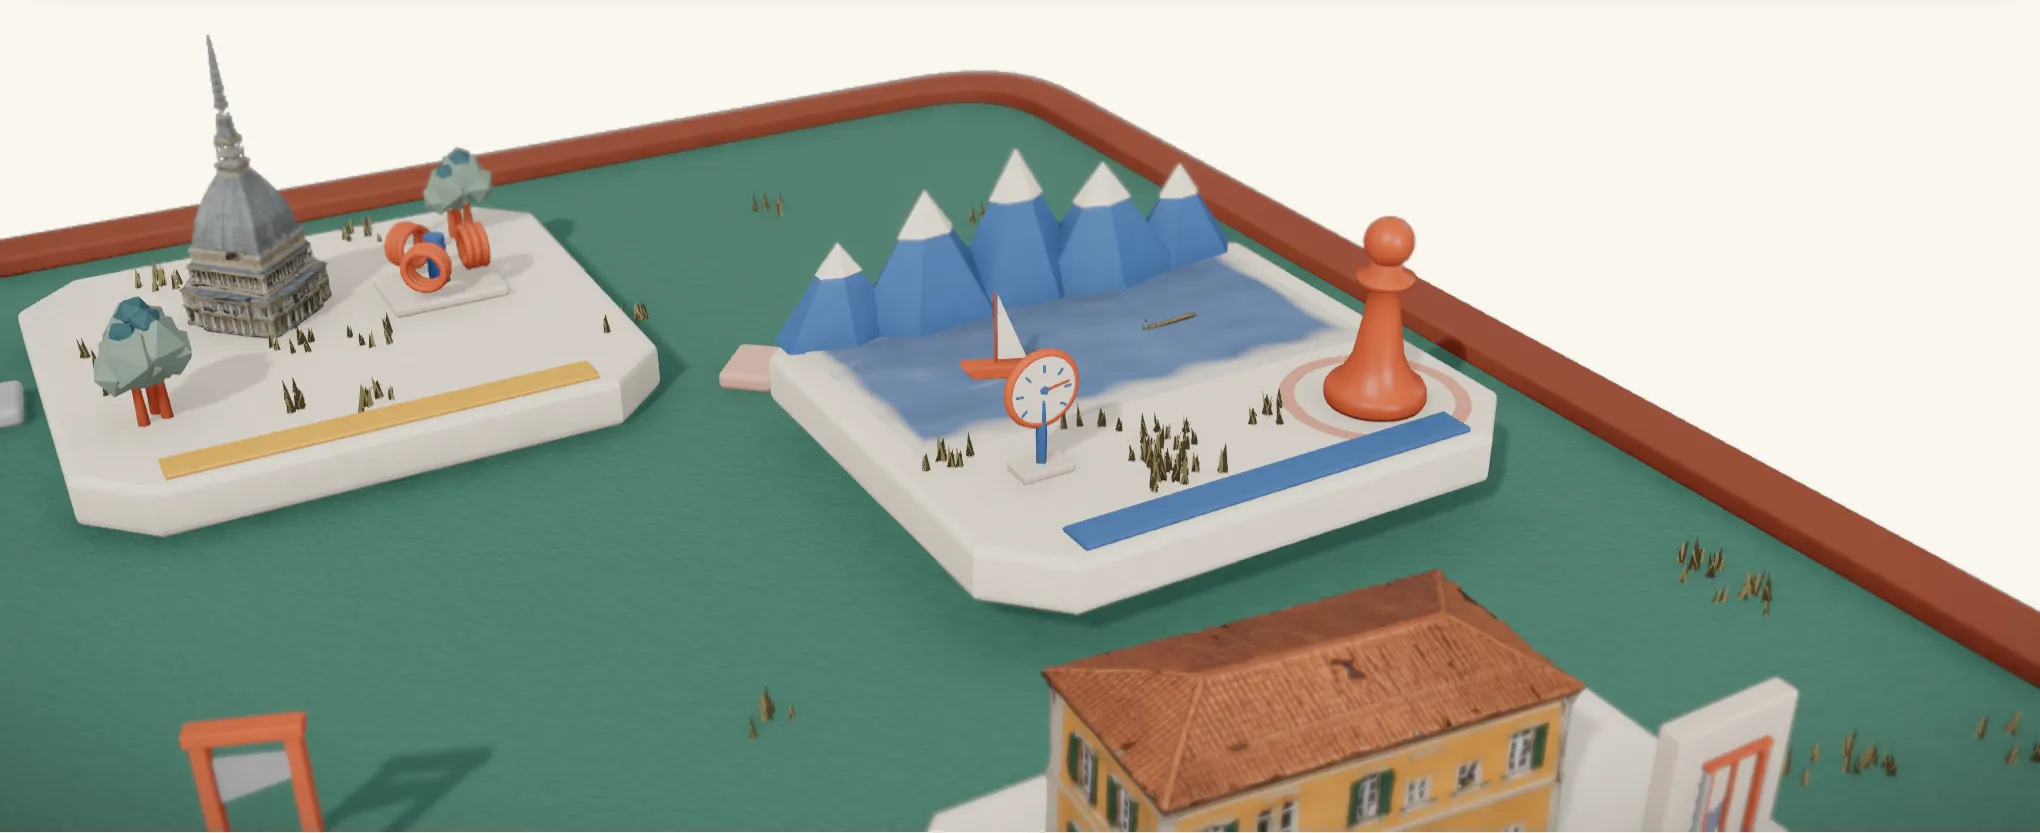
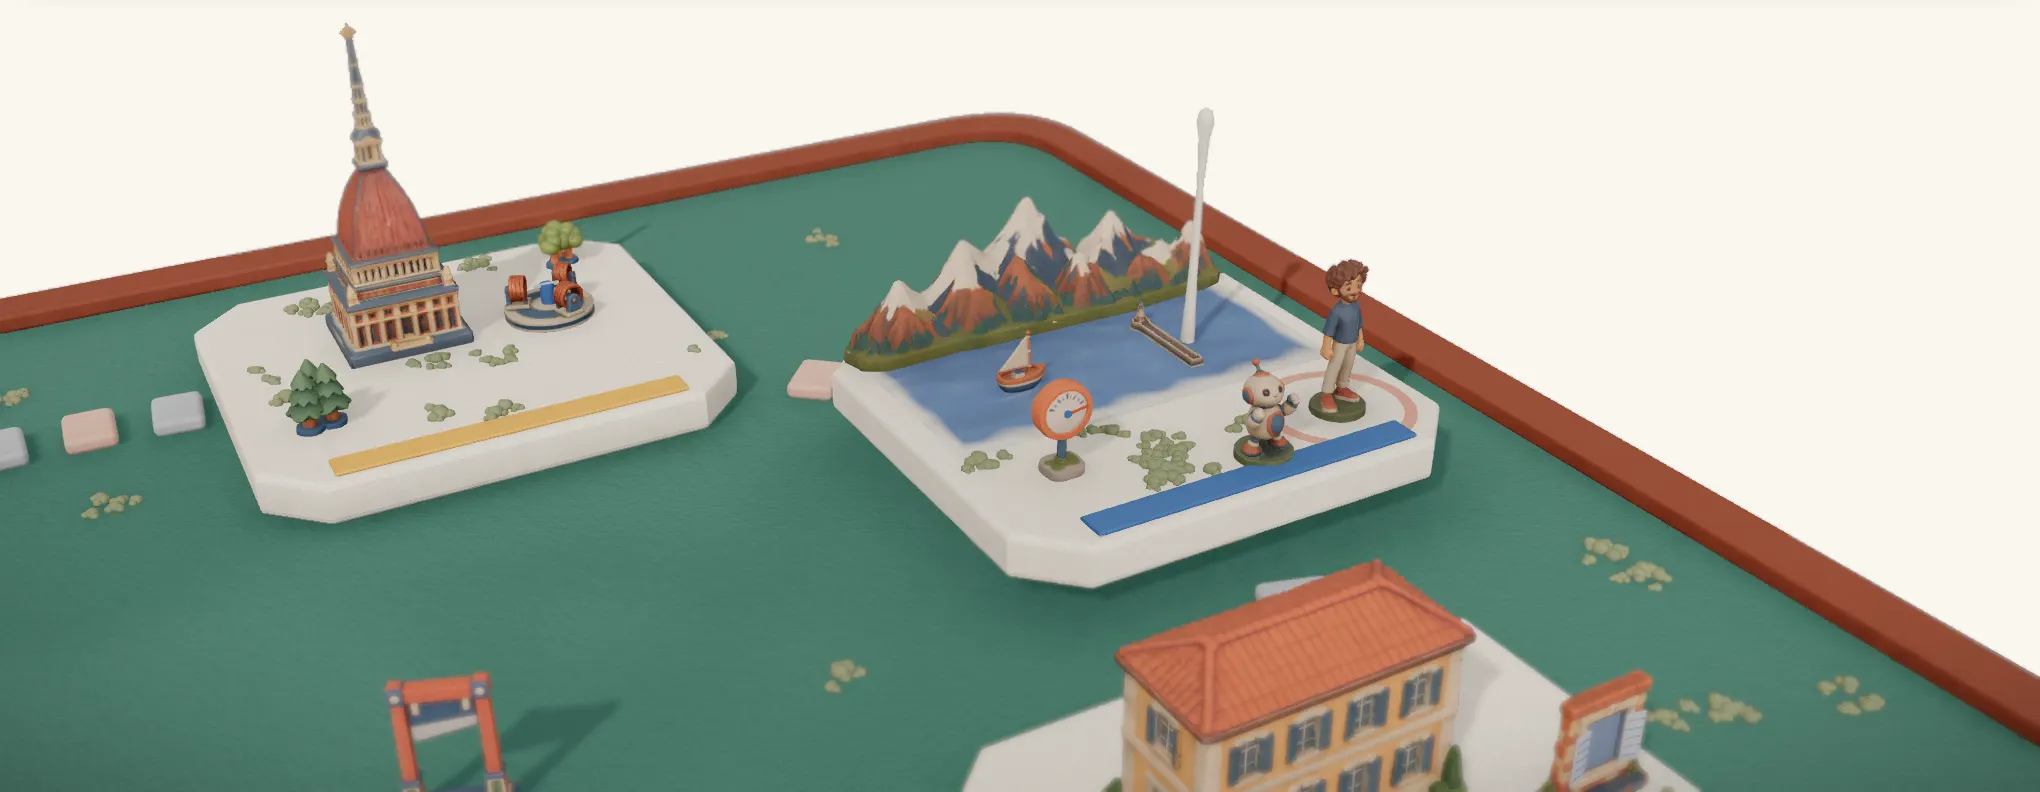
Render the stills with the toys and the duo, and record the toys ADR
The stills wait for every landmark, toy and marker to arrive before they
are shot, so they show the toys and the duo rather than the stand-ins,
in the new night and grass; each is under 73 KB. ADR-0012 records what
v3-toys left unwritten: the board's pieces are generated toys, their
moving parts stay in code, and the GPU budget is 440 MB. The life and
camera docs gain the dormant tiles, the lid, the lean, the confetti, the
lantern and the grass. The pawn's lean reuses a scratch vector.

Ticket: v3-emil-polish
Claude-Session: https://claude.ai/code/session_018sJQ2WFWSifDgKBRRoQqG8

diff --git a/scripts/render-path-stills.ts b/scripts/render-path-stills.ts
@@ -61,12 +61,17 @@ try {
       await page.goto(`${origin}/path#${step.slug}`);
       /* After the first, each goto only changes the fragment, so the page
          still carries the last step's end state: wait for the board to settle
-         on this step, every prop standing, the last step's crossfade gone
-         (reduced motion cuts with one), and for a frame rendered after. */
+         on this step, every prop standing, every landmark, toy prop and
+         the duo arrived in place of its stand-in (`data-path-landmarks`),
+         the last step's crossfade gone (reduced motion cuts with one), and
+         for a frame rendered after. */
       await page.waitForFunction(
         ({ slug, props }) => {
           const stage = document.querySelector("[data-path-stage]");
           return (
+            stage
+              ?.querySelector("canvas")
+              ?.getAttribute("data-path-landmarks") === "settled" &&
             stage?.getAttribute("data-build-state") === "built" &&
             stage.getAttribute("data-scene-step") === slug &&
             stage.getAttribute("data-scene-props") === props &&
@@ -74,7 +79,7 @@ try {
           );
         },
         { slug: step.slug, props: everyProp },
-        { timeout: 15_000 },
+        { timeout: 60_000 },
       );
       await page.evaluate(
         () =>

diff --git a/src/components/path/scene/runtime.ts b/src/components/path/scene/runtime.ts
@@ -1239,6 +1239,7 @@ export function createSceneRuntime(options: SceneRuntimeOptions): SceneRuntime {
   }
 
   const foot = new Vector3();
+  const footAhead = new Vector3();
 
   function posePawn() {
     if (!pawnAt) {
@@ -1253,7 +1254,7 @@ export function createSceneRuntime(options: SceneRuntimeOptions): SceneRuntime {
       lift = now.lift;
       pawnFoot(move, move.elapsed, foot);
       /* Leaning into the hop, as a flicked piece would. */
-      const ahead = pawnFoot(move, move.elapsed + 30, new Vector3()).sub(foot);
+      const ahead = pawnFoot(move, move.elapsed + 30, footAhead).sub(foot);
       body.rotation.z = -Math.sign(ahead.x) * Math.min(lift, 1) * 0.18;
       body.rotation.x = Math.sign(ahead.z) * Math.min(lift, 1) * 0.18;
       body.scale.set(1, 1, 1);

diff --git a/src/components/path/scene/props.ts b/src/components/path/scene/props.ts
@@ -177,9 +177,9 @@ export function seededRandom(seed: number) {
   };
 }
 
-/** A longer repeatable sequence in (0, 1), Park and Miller's, from a
- *  nonzero `state`: for the grass and the felt's noise, which draw more
- *  than `seededRandom`'s short period gives. */
+/** Park and Miller's repeatable sequence in (0, 1), from a nonzero
+ *  `state`: the one the grass and the felt's noise have always been laid
+ *  out with, so neither moves. */
 export function parkMiller(state: number) {
   return () => {
     state = (state * 16807) % 2147483647;

diff --git a/docs/path-life.md b/docs/path-life.md
@@ -26,6 +26,8 @@ why "a settled scene draws nothing" holds there; with motion the board draws whi
   multiplied into the sun's light. Shade 0.34 by day, 0.18 by night.
 - The idle pawn squashes 1.6% every 3 s, starting 3 s after it lands.
 - Phones grow half the grass and keep the cloud shadows.
+- Grass is toy tufts (v3-emil-polish): three squashed, rounded blobs in felt warmed 18% toward
+  the sun ink, which sway from their tops. The blade tufts they replace read as dark weeds.
 
 ## Beats
 
@@ -71,7 +73,23 @@ parts stand in the model's frame and are never squashed with it. The window's sh
 built shut over the glass and stand open flat beside it, so its last cue swings them shut.
 Every beat was watched at 0.25× on the board on 2026-10-29.
 
-## Arrival
+## Dormant tiles and arrival
+
+A tile the pawn has not reached yet stands dormant (v3-emil-polish): its pieces squat, at 62%
+of their height and 94% of their width, and its landmark sunk 32% into the tile. It is never
+an empty plinth. On arrival the tile wakes from there on the rise's spring (`wakePose`,
+`landmarkWake` in `motion.ts`), so nothing jumps. A wake cut short by a move goes on as a
+passed tile's catch-up, from where it was. `data-scene-props` and a piece's `shown` mean built
+and risen, so a dormant piece is in neither.
+
+The "?" tile keeps its surprise under a toy-box lid in the warm ink, tied with two sun-ink
+ribbons (`makeVeil` in `world.ts`). The lid lifts off on arrival, in 280 ms on `easeOutQuart`.
+Under reduced motion and in the stills every tile stands fully built, with no dormant look and
+no lid.
+
+Not done: the Coordinator also asked for a mild desaturation on dormant tiles. The pieces'
+materials are shared across tiles, so a dormant tint would need a material per tile. It was
+left out, and the squat pose and the sunk landmark carry the state.
 
 - The landing dips the tile 0.07 units in 55 ms and springs back
   within 350 ms, with 12 dust sprites over 720 ms.
@@ -91,6 +109,18 @@ reduced motion, it swaps at once.
 The buddy follows 130 ms behind on the same path, its hop 0.82 of the figure's height for
 its size, stretching 10% in the air, standing 1.05 units to the figure's left. When it lands
 they high-five: both lean in, the buddy hops.
+
+When a duo moment (the wave, spin or jab) plays during a dwell, the close-up leans in
+(`LEAN` in `camera-rig.ts`). It moves 30% closer and 60% of the way toward the pair's midpoint
+over 0.7 s, holds 2.4 s so a gesture is not bobbed in and out, then eases back over 0.9 s.
+The lean never happens outside a dwell or under reduced motion.
+
+## The end
+
+Once the last step has been told, the camera pulls back and paper confetti bursts over the "?"
+tile (`confetti.ts`). There are 28 flakes in each of the warm, cool, sun and leaf inks. They are
+thrown up, slowed by drag to a paper's fall, and gone in 3.2 s, shrinking over their last 22%.
+It happens once a tour, and never under reduced motion.
 
 ## Click answers and moments
 
@@ -117,7 +147,7 @@ single tile, since the cookie is board-wide.
 Generated models (textured materials only: the landmarks, and since v3-toys the toy props
 and the duo) are pulled toward a ramp from slate through terracotta to the stock by
 lightness, and their black point lifted toward the stock: amount 0.08 and lift 0.03 by day,
-0.10 and 0.08 by night. It was 0.35 and 0.10 by day, 0.38 and 0.20 by night, for the
+0.10 and 0.04 by night (0.08 until v3-emil-polish, which found it greyed the night). It was 0.35 and 0.10 by day, 0.38 and 0.20 by night, for the
 photo-textured landmarks; on the toys, already painted in the board's colours, that greyed
 them by night. Checked close up on every model in both modes on 2026-10-29: they keep their
 colours, the Bourse's brick and the figure's shirt included, by night.

diff --git a/docs/adr/0012-the-path-board-pieces-are-generated-toys-and-their-moving-parts-stay-in-code.md b/docs/adr/0012-the-path-board-pieces-are-generated-toys-and-their-moving-parts-stay-in-code.md
@@ -1,0 +1,50 @@
+# The path board's pieces are generated toys, and their moving parts stay in code
+
+Decided in v3's toys ticket (v3-toys, 2026-10-29) and written down in v3-emil-polish, which
+the toys ticket left it to. It reverses ADR-0010's "Generate every prop as a model: rejected
+for now", and amends its "Everything on the board is solid geometry, modelled in code". The
+rest of ADR-0010 stands: no text in the scene, one material treatment, one layout. ADR-0011's
+light and grade apply to the toys as they do to the landmarks.
+
+Beside the generated landmarks, the code-modelled props and pawn read as a different kit: the
+landmarks were painted, rounded toys, and the props around them were bare primitives. The owner
+asked for one toy set across the board.
+
+What ships:
+
+- **The board's pieces are generated toy models.** The thirteen side props and the duo (the
+  figure and the robot) are GLBs under `public/path/models/`, listed in `props.json`, and load
+  through the landmarks' lazy loader, LOD-aware as it is: a phone, and the governor's rungs from
+  ×0.75 down, fetch the `.lod.glb`. Each is fitted into its piece's box in `board.ts`, as a
+  landmark is.
+- **The code-modelled pieces are retired as the board's art.** They stay only as the stand-in
+  a toy replaces: they stand while it loads, and for good if its file is unlisted or fails. A
+  toy that does not arrive is never a failure of its tile.
+- **The parts that move stay in code.** A beat, a click or a moment moves a named part
+  (`BEAT_NODE` in `piece-beats.ts`): the coils' windings, the dial's needle, the MVP window's
+  shutters and glass, the clock's hand, the pipe. A generated mesh is one welded shell, so
+  these are built in code, in the toy's paint, and set into the toy where the part goes. A spec
+  (`tests/path-toys.spec.ts`) checks each toy carries every part its beat moves.
+- **The GPU budget is 440 MB.** The toys' textures add 36.7 MB at full size. The worst case,
+  2560×1440 ×2 with every landmark, prop and marker loaded at full size, measured 417.0 MB; 440
+  MB is that with some headroom (`docs/path-measurements.md`).
+
+## Considered options
+
+**Keep the code-modelled props.** Rejected: beside the generated landmarks they read as a
+different, plainer set, and the board stopped looking like one toy.
+
+**Generate the moving parts as part of each model.** Rejected: a generated mesh has no named,
+separable parts to rotate or light, so the beats would have nothing to move but the whole piece.
+
+**Drop the stand-ins once the toys ship.** Rejected: a slow or failed file would leave an empty
+spot on a tile, and the stand-in costs no transfer.
+
+## Consequences
+
+- A new prop lands as a GLB and its LOD plus an entry in `props.json`, and keeps the budgets in
+  `docs/path-measurements.md`. If its beat moves a part, that part is built in code and named
+  for `BEAT_NODE`.
+- The stills are rendered again from the board once every toy has arrived
+  (`generate:path-stills` waits on `data-path-landmarks="settled"`), so they show the toys and
+  the duo, not the stand-ins.

diff --git a/docs/path-camera.md b/docs/path-camera.md
@@ -17,6 +17,7 @@ pull-back reads as even.
 | ------------------ | ---------------------------------------------------------------------- | --------------------------------------------------------------- |
 | Opening            | 2.4 s, or 1.2 s when the visit enters at a step other than home        | `easeInOutCubic`, FOV 30° → 24° (a portrait phone stays at 30°) |
 | Close-up (dwell)   | The narration plus 0.8 s, at least 5 s                                 | Linear 6° orbit; 1% breathing dolly, sine at 0.15 Hz            |
+| Lean (duo moment)  | 0.7 s in, held 2.4 s, 0.9 s out; 30% closer, 60% toward the duo        | `easeInOutCubic`; only in a dwell, never under reduced motion   |
 | Pull back          | 0.9 s, to 2.2× the close-up's distance (×1.3 more on a portrait phone) | `easeInOutCubic`                                                |
 | Travel             | 0.56 s a tile, the camera 0.25 s behind the pawn                       | Follow damping, half-life 0.12 s                                |
 | Push in            | 1.2 s; the stage reports `settled` at its end                          | `easeOutQuart`                                                  |
@@ -79,6 +80,17 @@ Each draw (`runtime.ts`, `followShot`) hands it to the lit board's chain:
   is mixed in at 60%. From the travel shot out to the whole board it fades to 15% over a band
   wider than the stage, which leaves that shot all but sharp. v3-light's fixed band blurred the
   upper half of a close-up, Lille's subject included.
+
+Night has a lantern (v3-emil-polish, `lighting.ts`): a warm point light hung over the
+focus target. It sits 2.4 units up plus a quarter of the radius, and reaches 3.2 units or
+1.6 radii, whichever is larger. It is at 0 by day and rises with the night mix. It lights the
+dwell's tile so the subject reads in colour at night, the robot's face included on a phone.
+The night also keeps more of the day: the sun at 0.85 and the sky at 0.4 of their day
+strength, the environment at 0.13, and the grade's saturation at 1.02.
+
+A turn refits the shots every frame it moves, since the fit depends on the board's turn. That
+costs about 0.02 ms a frame, measured. The fit cache keeps one entry per shot, its latest
+turn, so a turn no longer floods it and flushes the shots at rest.
 
 A landmark fills its layout box only as far as its proportions allow. Turin's Mole is 3.3 high in
 the layout and about 2.4 as built. So the runtime measures each piece as it builds it
